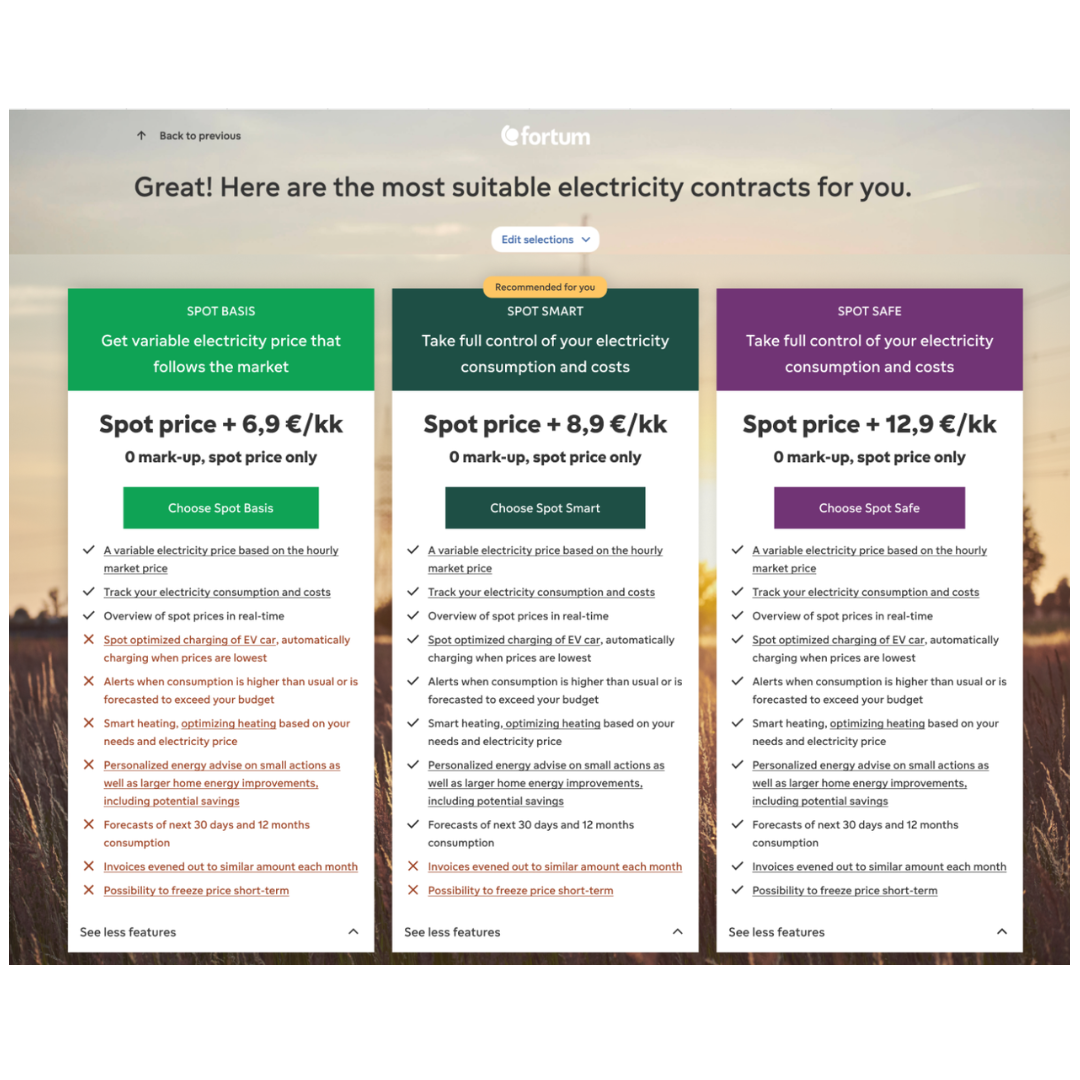
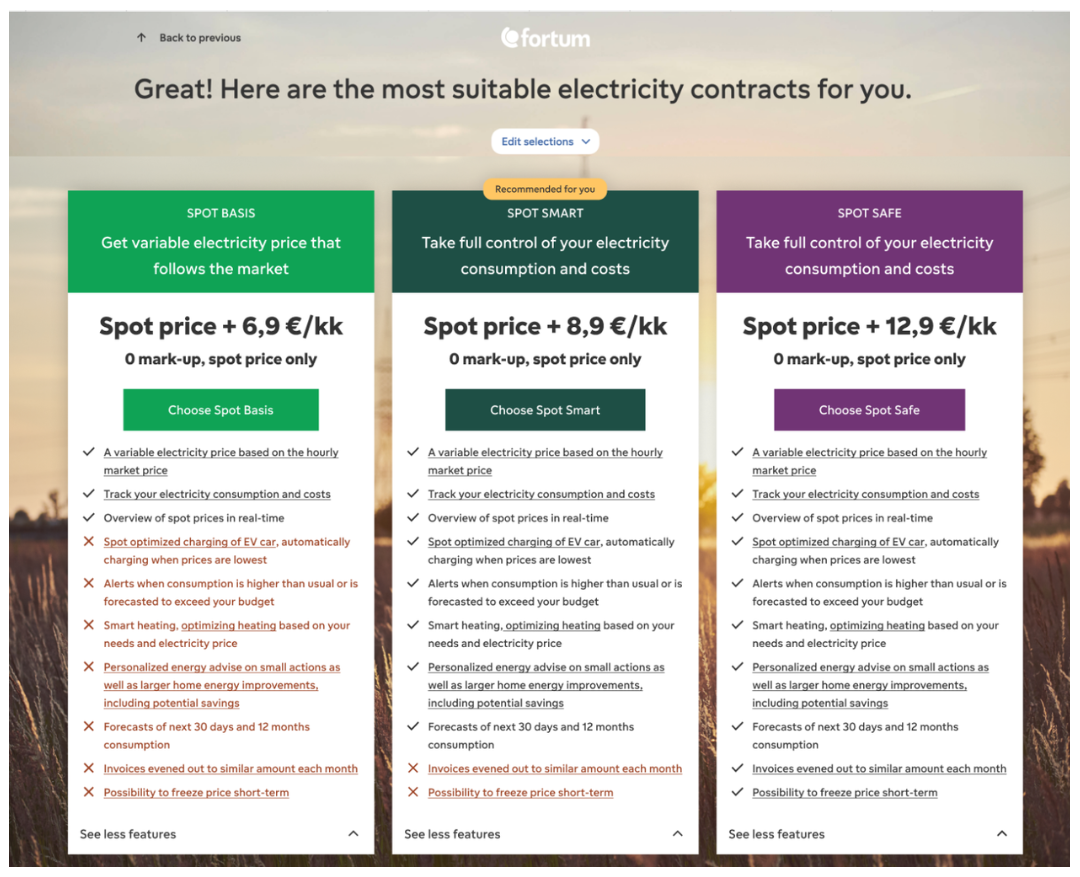
Trim white borders from the Fortum screenshots
Cropped each to its content bounding box with a 10px margin: the survey lost
197px top and 245px bottom, the analysis table 242px and 390px, the quiz ~100px
each side, and the price freeze card ~90px left and right.

Cropping changed their aspect ratios enough that the fixed 4/3 image frame now
letterboxed the wide ones, so the frame hugs its image instead of imposing a
ratio — the art here ranges from tall phone mock-ups to very wide tables.

Claude-Session: https://claude.ai/code/session_01WvQFioFd8AdRyknNyCBVYC

diff --git a/article.html b/article.html
@@ -92,11 +92,14 @@
   .layout-media { display:grid; gap:28px; align-items:start; }
   .layout-media-left  { grid-template-columns: minmax(0, 1.05fr) minmax(0, 1fr); }
   .layout-media-right { grid-template-columns: minmax(0, 1fr) minmax(0, 1.05fr); }
-  .main-image-wrap { position:relative; aspect-ratio: 4/3; max-height: 380px;
+  /* No fixed aspect: case study art ranges from tall phone mock-ups to wide
+     tables, and a fixed frame letterboxes one or the other. */
+  .main-image-wrap { position:relative; max-height: 440px;
     border-radius:8px; overflow:hidden; border:1px solid rgba(0,0,0,0.08);
     background:var(--paper); cursor:zoom-in; transition: transform .2s ease; }
   .main-image-wrap:hover { transform: translateY(-2px); box-shadow: 0 14px 30px -16px rgba(0,0,0,0.3); }
-  .main-image-wrap img { width:100%; height:100%; object-fit:contain; }
+  .main-image-wrap img { display:block; width:100%; height:auto;
+    max-height:440px; object-fit:contain; }
   .main-image-cap { font-size:11px; color: var(--forest); margin-top:6px;
     letter-spacing:0.04em; }
 
